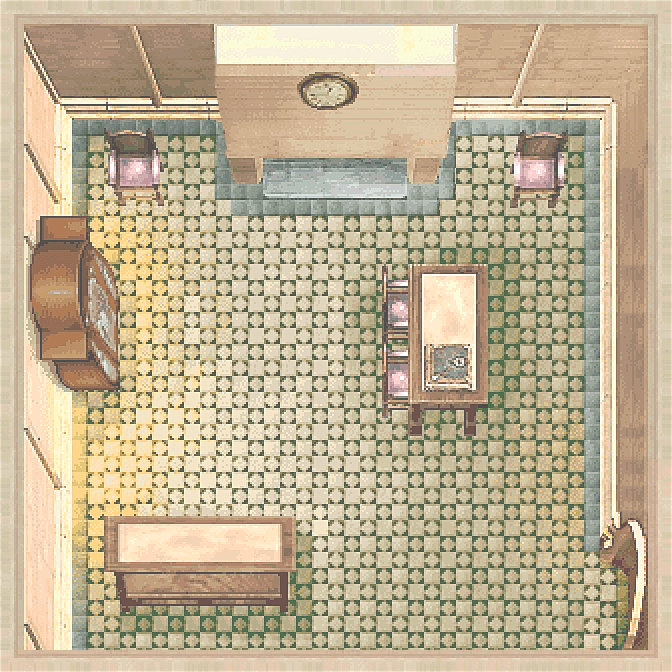
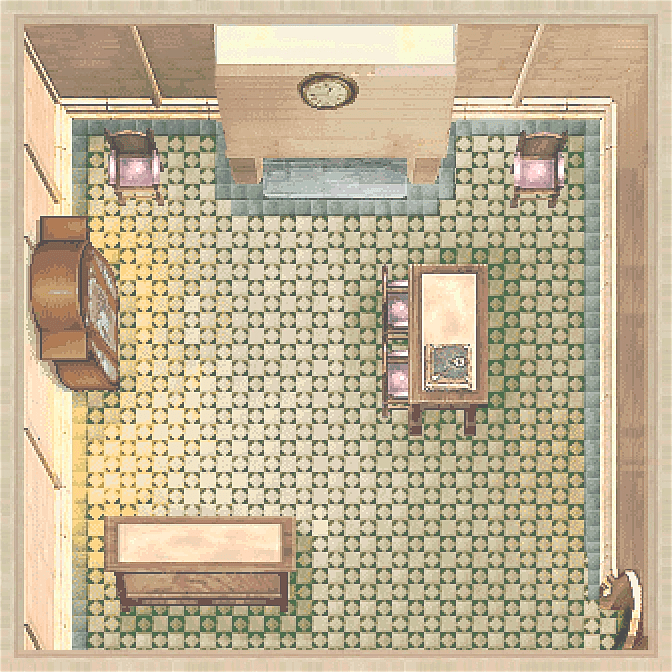
malo esquiva exámenes y puerta mejorada

Changed region(s): [[0.875, 0.6875, 0.9688, 0.9688], [0.9375, 0.6875, 0.9688, 0.7188]]

diff --git a/script.js b/script.js
@@ -61,7 +61,8 @@ window.onload = () => {
 
     //------------------------------------------------------------------------------------------------------
 
-    let objetivo = document.querySelector("img");
+    //Usar una imagen como cursor
+    let objetivo = document.getElementById("varita");
     // centrar la pelota en las coordenadas (pageX, pageY)
     function moveAt(pageX, pageY) {
         objetivo.style.left = pageX - objetivo.offsetWidth / 2 + 'px';
@@ -94,6 +95,8 @@ window.onload = () => {
 
     //Coloco la puerta de salida cerrada
     let salida = celdas[celdas.length - 1];
+    salida.id = "puertaCerrada";
+    console.log(salida)
 
 
 
@@ -124,8 +127,7 @@ window.onload = () => {
             // Compruebo si el movimiento que quiere hacer el usuario es correcto
             if (posicion_prota + 1 == Array.from(celdas).indexOf(e.target) || posicion_prota - 1 == Array.from(celdas).indexOf(e.target) || posicion_prota + 8 == Array.from(celdas).indexOf(e.target) || posicion_prota - 8 == Array.from(celdas).indexOf(e.target)) {
 
-                //Llamo a la función "comprobar salida" para ver si la puerta está abierta
-                // comprobarSalida(posicion_prota, celdas, salida);
+                
 
                 celdas[posicion_prota].id = "";
                 posicion_prota = Array.from(celdas).indexOf(e.target);
@@ -151,12 +153,7 @@ window.onload = () => {
         }
     });
 
-    // Compruebo si el protagonista ha conseguido los examenes  NO SE PORQUE ESTÁ ESTO AQUÍ
-    // if (posicion_prota == posicion_examenes) {
-    //     examanes_inventario = true;
-    //     inventario.textContent = "Examenes";
-    //     salida.id = "puertaAbierta";
-    // }
+   
 
     // Mover pulsando culsores del teclado
     let derecha = [7, 15, 23, 31, 39, 47, 55, 63];
@@ -237,6 +234,9 @@ function comprobarSalida(pos_prota, listaCeldas) {
     let celdas = listaCeldas;
 
     if ((((posicion_prota + 1) == celdas.length - 1) || ((posicion_prota + 8) == celdas.length - 1)) && (celdas[celdas.length - 1].id == "puertaAbierta")) {
+
+        let prota  = document.getElementById("puertaAbierta");
+        prota.style.backgroundImage = "img/harry-escoba.gif";
         alert("Has ganado!!!");
         clearTimeout(timer);
     }
@@ -303,79 +303,194 @@ function moverMalo(examenes, listaCeldas) {
 
 
     tablero[coordenadas.filaMalo][coordenadas.columnaMalo].id = "";
-
+    //Comprobar que se encuentra en la parte superior-izquierda del tablero
     if ((coordenadas.filaProta < coordenadas.filaMalo) && (coordenadas.columnaProta < coordenadas.columnaMalo)) {
 
+        //Mover malo a la izquierda
         if ((((coordenadas.filaMalo % 2) == 0) && ((coordenadas.columnaMalo % 2) == 0)) || (((coordenadas.filaMalo % 2) == 1) && ((coordenadas.columnaMalo % 2) == 1))) {
-            tablero[coordenadas.filaMalo][coordenadas.columnaMalo - 1].id = "malo";
-            coordenadas.columnaMalo = coordenadas.columnaMalo - 1;
-            console.log("columna cambiada malo");
-        } else {
-            tablero[coordenadas.filaMalo - 1][coordenadas.columnaMalo].id = "malo";
-            // coordenadas.filaMalo = (coordenadas.filaMalo - 1);
-            coordenadas.filaMalo = coordenadas.filaMalo - 1;
-            console.log("fila cambiada malo");
+            if (((coordenadas.columnaMalo - 1) == coordenadas.columnaExamenes) && (coordenadas.filaMalo == coordenadas.filaExamenes) && (coordenadas.filaMalo > 0)) {
+                tablero[coordenadas.filaMalo - 1][coordenadas.columnaMalo].id = "malo";
+                coordenadas.filaMalo = coordenadas.filaMalo - 1;
+            } else if (((coordenadas.columnaMalo - 1) == coordenadas.columnaExamenes) && (coordenadas.filaMalo == coordenadas.filaExamenes) && (coordenadas.filaMalo == 0)) {
+                tablero[coordenadas.filaMalo + 1][coordenadas.columnaMalo].id = "malo";
+                coordenadas.filaMalo = coordenadas.filaMalo + 1;
+            } else {
+                tablero[coordenadas.filaMalo][coordenadas.columnaMalo - 1].id = "malo";
+                coordenadas.columnaMalo = coordenadas.columnaMalo - 1;
+            }
 
+            //Mover hacia arriba
+        } else {
+            if (((coordenadas.columnaMalo) == coordenadas.columnaExamenes) && ((coordenadas.filaMalo - 1) == coordenadas.filaExamenes) && (coordenadas.columnaMalo > 0)) {
+                tablero[coordenadas.filaMalo][coordenadas.columnaMalo - 1].id = "malo";
+                coordenadas.columnaMalo = coordenadas.columnaMalo - 1;
+
+            } else if (((coordenadas.columnaMalo) == coordenadas.columnaExamenes) && ((coordenadas.filaMalo - 1) == coordenadas.filaExamenes) && (coordenadas.columnaMalo == 0)) {
+                tablero[coordenadas.filaMalo][coordenadas.columnaMalo + 1].id = "malo";
+                coordenadas.columnaMalo = coordenadas.columnaMalo + 1;
+            } else {
+                tablero[coordenadas.filaMalo - 1][coordenadas.columnaMalo].id = "malo";
+                coordenadas.filaMalo = coordenadas.filaMalo - 1;
+            }
 
         }
 
 
-
+        //Comprobar que se encuentra en la parte superior-derecha del tablero
     } else if ((coordenadas.filaProta < coordenadas.filaMalo) && (coordenadas.columnaProta > coordenadas.columnaMalo)) {
 
+        //Mover hacia la derecha
         if ((((coordenadas.filaMalo % 2) == 0) && ((coordenadas.columnaMalo % 2) == 0)) || (((coordenadas.filaMalo % 2) == 1) && ((coordenadas.columnaMalo % 2) == 1))) {
-            tablero[coordenadas.filaMalo][coordenadas.columnaMalo + 1].id = "malo";
-            coordenadas.columnaMalo = coordenadas.columnaMalo + 1;
+            if (((coordenadas.columnaMalo + 1) == coordenadas.columnaExamenes) && (coordenadas.filaMalo == coordenadas.filaExamenes) && (coordenadas.filaMalo > 0)) {
+                tablero[coordenadas.filaMalo - 1][coordenadas.columnaMalo].id = "malo";
+                coordenadas.filaMalo = coordenadas.filaMalo - 1;
+            } else if (((coordenadas.columnaMalo + 1) == coordenadas.columnaExamenes) && (coordenadas.filaMalo == coordenadas.filaExamenes) && (coordenadas.filaMalo == 0)) {
+                tablero[coordenadas.filaMalo + 1][coordenadas.columnaMalo].id = "malo";
+                coordenadas.filaMalo = coordenadas.filaMalo + 1;
+            } else {
+                tablero[coordenadas.filaMalo][coordenadas.columnaMalo + 1].id = "malo";
+                coordenadas.columnaMalo = coordenadas.columnaMalo + 1;
+            }
+
+            //Mover hacia arriba
         } else {
-            tablero[coordenadas.filaMalo - 1][coordenadas.columnaMalo].id = "malo";
-            coordenadas.filaMalo = coordenadas.filaMalo - 1;
+            if (((coordenadas.columnaMalo) == coordenadas.columnaExamenes) && ((coordenadas.filaMalo - 1) == coordenadas.filaExamenes) && (coordenadas.columnaMalo > 0)) {
+                tablero[coordenadas.filaMalo][coordenadas.columnaMalo - 1].id = "malo";
+                coordenadas.columnaMalo = coordenadas.columnaMalo - 1;
+
+            } else if (((coordenadas.columnaMalo) == coordenadas.columnaExamenes) && ((coordenadas.filaMalo - 1) == coordenadas.filaExamenes) && (coordenadas.columnaMalo == 0)) {
+                tablero[coordenadas.filaMalo][coordenadas.columnaMalo + 1].id = "malo";
+                coordenadas.columnaMalo = coordenadas.columnaMalo + 1;
+            } else {
+                tablero[coordenadas.filaMalo - 1][coordenadas.columnaMalo].id = "malo";
+                coordenadas.filaMalo = coordenadas.filaMalo - 1;
+            }
+
         }
 
 
+
+        //Comprobar que se encuentra en la parte inferior-izquierda del tablero
 
     } else if ((coordenadas.filaProta > coordenadas.filaMalo) && (coordenadas.columnaProta < coordenadas.columnaMalo)) {
-
+        //Mover malo a la izquierda
         if ((((coordenadas.filaMalo % 2) == 0) && ((coordenadas.columnaMalo % 2) == 0)) || (((coordenadas.filaMalo % 2) == 1) && ((coordenadas.columnaMalo % 2) == 1))) {
-            tablero[coordenadas.filaMalo][coordenadas.columnaMalo - 1].id = "malo";
-            coordenadas.columnaMalo = coordenadas.columnaMalo - 1;
+            if (((coordenadas.columnaMalo - 1) == coordenadas.columnaExamenes) && (coordenadas.filaMalo == coordenadas.filaExamenes) && (coordenadas.filaMalo < (tablero.length - 1))) {
+                tablero[coordenadas.filaMalo + 1][coordenadas.columnaMalo].id = "malo";
+                coordenadas.filaMalo = coordenadas.filaMalo + 1;
+            } else if (((coordenadas.columnaMalo - 1) == coordenadas.columnaExamenes) && (coordenadas.filaMalo == coordenadas.filaExamenes) && (coordenadas.filaMalo == (tablero.length - 1))) {
+                tablero[coordenadas.filaMalo - 1][coordenadas.columnaMalo].id = "malo";
+                coordenadas.filaMalo = coordenadas.filaMalo - 1;
+            } else {
+                tablero[coordenadas.filaMalo][coordenadas.columnaMalo - 1].id = "malo";
+                coordenadas.columnaMalo = coordenadas.columnaMalo - 1;
+            }
+            //Mover malo hacia abajo
         } else {
-            tablero[coordenadas.filaMalo + 1][coordenadas.columnaMalo].id = "malo";
-            coordenadas.filaMalo = coordenadas.filaMalo + 1;
+            if (((coordenadas.columnaMalo) == coordenadas.columnaExamenes) && ((coordenadas.filaMalo + 1) == coordenadas.filaExamenes) && (coordenadas.columnaMalo > 0)) {
+                tablero[coordenadas.filaMalo][coordenadas.columnaMalo - 1].id = "malo";
+                coordenadas.columnaMalo = coordenadas.columnaMalo - 1;
+
+            } else if (((coordenadas.columnaMalo) == coordenadas.columnaExamenes) && ((coordenadas.filaMalo + 1) == coordenadas.filaExamenes) && (coordenadas.columnaMalo == 0)) {
+                tablero[coordenadas.filaMalo][coordenadas.columnaMalo + 1].id = "malo";
+                coordenadas.columnaMalo = coordenadas.columnaMalo + 1;
+            } else {
+                tablero[coordenadas.filaMalo + 1][coordenadas.columnaMalo].id = "malo";
+                coordenadas.filaMalo = coordenadas.filaMalo + 1;
+            }
+
         }
 
 
+        //Comprobar que se encuentra en la parte inferior-derecha del tablero
 
     } else if ((coordenadas.filaProta > coordenadas.filaMalo) && (coordenadas.columnaProta > coordenadas.columnaMalo)) {
 
+        //Mover malo a la derecha
         if ((((coordenadas.filaMalo % 2) == 0) && ((coordenadas.columnaMalo % 2) == 0)) || (((coordenadas.filaMalo % 2) == 1) && ((coordenadas.columnaMalo % 2) == 1))) {
-            tablero[coordenadas.filaMalo][coordenadas.columnaMalo + 1].id = "malo";
-            coordenadas.columnaMalo = coordenadas.columnaMalo + 1;
+            if (((coordenadas.columnaMalo + 1) == coordenadas.columnaExamenes) && (coordenadas.filaMalo == coordenadas.filaExamenes) && (coordenadas.filaMalo < (tablero.length - 1))) {
+                tablero[coordenadas.filaMalo + 1][coordenadas.columnaMalo].id = "malo";
+                coordenadas.filaMalo = coordenadas.filaMalo + 1;
+            } else if (((coordenadas.columnaMalo + 1) == coordenadas.columnaExamenes) && (coordenadas.filaMalo == coordenadas.filaExamenes) && (coordenadas.filaMalo == (tablero.length - 1))) {
+                tablero[coordenadas.filaMalo - 1][coordenadas.columnaMalo].id = "malo";
+                coordenadas.filaMalo = coordenadas.filaMalo - 1;
+            } else {
+                tablero[coordenadas.filaMalo][coordenadas.columnaMalo + 1].id = "malo";
+                coordenadas.columnaMalo = coordenadas.columnaMalo + 1;
+            }
+            //Mover malo hacia abajo
         } else {
-            tablero[coordenadas.filaMalo + 1][coordenadas.columnaMalo].id = "malo";
-            coordenadas.filaMalo = coordenadas.filaMalo + 1;
+            if (((coordenadas.columnaMalo) == coordenadas.columnaExamenes) && ((coordenadas.filaMalo + 1) == coordenadas.filaExamenes) && (coordenadas.columnaMalo > 0)) {
+                tablero[coordenadas.filaMalo][coordenadas.columnaMalo - 1].id = "malo";
+                coordenadas.columnaMalo = coordenadas.columnaMalo - 1;
+
+            } else if (((coordenadas.columnaMalo) == coordenadas.columnaExamenes) && ((coordenadas.filaMalo + 1) == coordenadas.filaExamenes) && (coordenadas.columnaMalo == 0)) {
+                tablero[coordenadas.filaMalo][coordenadas.columnaMalo + 1].id = "malo";
+                coordenadas.columnaMalo = coordenadas.columnaMalo + 1;
+            } else {
+                tablero[coordenadas.filaMalo + 1][coordenadas.columnaMalo].id = "malo";
+                coordenadas.filaMalo = coordenadas.filaMalo + 1;
+            }
+
         }
 
-
+        //Comprobar que se encuentra en la misma fila o columna
     } else {
 
+        //Misma fila, se mueve a la izquierda
         if ((coordenadas.filaProta == coordenadas.filaMalo) && (coordenadas.columnaProta < coordenadas.columnaMalo)) {
+            if (((coordenadas.columnaMalo - 1) == coordenadas.columnaExamenes) && (coordenadas.filaMalo == coordenadas.filaExamenes) && (coordenadas.filaMalo > 0)) {
+                tablero[coordenadas.filaMalo - 1][coordenadas.columnaMalo].id = "malo";
+                coordenadas.filaMalo = coordenadas.filaMalo - 1;
+            } else if (((coordenadas.columnaMalo - 1) == coordenadas.columnaExamenes) && (coordenadas.filaMalo == coordenadas.filaExamenes) && (coordenadas.filaMalo == 0)) {
+                tablero[coordenadas.filaMalo + 1][coordenadas.columnaMalo].id = "malo";
+                coordenadas.filaMalo = coordenadas.filaMalo + 1;
+            } else {
+                tablero[coordenadas.filaMalo][coordenadas.columnaMalo - 1].id = "malo";
+                coordenadas.columnaMalo = coordenadas.columnaMalo - 1;
+            }
 
-            tablero[coordenadas.filaMalo][coordenadas.columnaMalo - 1].id = "malo";
-            coordenadas.columnaMalo = coordenadas.columnaMalo - 1;
-
+            //Misma fila, se mueve a la derecha
         } else if ((coordenadas.filaProta == coordenadas.filaMalo) && (coordenadas.columnaProta > coordenadas.columnaMalo)) {
+            if (((coordenadas.columnaMalo + 1) == coordenadas.columnaExamenes) && (coordenadas.filaMalo == coordenadas.filaExamenes) && (coordenadas.filaMalo > 0)) {
+                tablero[coordenadas.filaMalo - 1][coordenadas.columnaMalo].id = "malo";
+                coordenadas.filaMalo = coordenadas.filaMalo - 1;
+            } else if (((coordenadas.columnaMalo + 1) == coordenadas.columnaExamenes) && (coordenadas.filaMalo == coordenadas.filaExamenes) && (coordenadas.filaMalo == 0)) {
+                tablero[coordenadas.filaMalo + 1][coordenadas.columnaMalo].id = "malo";
+                coordenadas.filaMalo = coordenadas.filaMalo + 1;
+            } else {
+                tablero[coordenadas.filaMalo][coordenadas.columnaMalo + 1].id = "malo";
+                coordenadas.columnaMalo = coordenadas.columnaMalo + 1;
+            }
 
-            tablero[coordenadas.filaMalo][coordenadas.columnaMalo + 1].id = "malo";
-            coordenadas.columnaMalo = coordenadas.columnaMalo + 1;
-
+            //Misma columna, se mueve hacia arriba
         } else if ((coordenadas.columnaProta == coordenadas.columnaProta) && (coordenadas.filaProta < coordenadas.filaMalo)) {
 
-            tablero[coordenadas.filaMalo - 1][coordenadas.columnaMalo].id = "malo";
-            coordenadas.filaMalo = coordenadas.filaMalo - 1;
+            if (((coordenadas.columnaMalo) == coordenadas.columnaExamenes) && ((coordenadas.filaMalo - 1) == coordenadas.filaExamenes) && (coordenadas.columnaMalo > 0)) {
+                tablero[coordenadas.filaMalo][coordenadas.columnaMalo - 1].id = "malo";
+                coordenadas.columnaMalo = coordenadas.columnaMalo - 1;
 
+            } else if (((coordenadas.columnaMalo) == coordenadas.columnaExamenes) && ((coordenadas.filaMalo - 1) == coordenadas.filaExamenes) && (coordenadas.columnaMalo == 0)) {
+                tablero[coordenadas.filaMalo][coordenadas.columnaMalo + 1].id = "malo";
+                coordenadas.columnaMalo = coordenadas.columnaMalo + 1;
+            } else {
+                tablero[coordenadas.filaMalo - 1][coordenadas.columnaMalo].id = "malo";
+                coordenadas.filaMalo = coordenadas.filaMalo - 1;
+            }
+
+            //Misma columna, se mueve hacia abajo
         } else {
-            tablero[coordenadas.filaMalo + 1][coordenadas.columnaMalo].id = "malo";
-            coordenadas.filaMalo = coordenadas.filaMalo + 1;
+            if (((coordenadas.columnaMalo) == coordenadas.columnaExamenes) && ((coordenadas.filaMalo + 1) == coordenadas.filaExamenes) && (coordenadas.columnaMalo > 0)) {
+                tablero[coordenadas.filaMalo][coordenadas.columnaMalo - 1].id = "malo";
+                coordenadas.columnaMalo = coordenadas.columnaMalo - 1;
+
+            } else if (((coordenadas.columnaMalo) == coordenadas.columnaExamenes) && ((coordenadas.filaMalo + 1) == coordenadas.filaExamenes) && (coordenadas.columnaMalo == 0)) {
+                tablero[coordenadas.filaMalo][coordenadas.columnaMalo + 1].id = "malo";
+                coordenadas.columnaMalo = coordenadas.columnaMalo + 1;
+            } else {
+                tablero[coordenadas.filaMalo + 1][coordenadas.columnaMalo].id = "malo";
+                coordenadas.filaMalo = coordenadas.filaMalo + 1;
+            }
         }
 
     }
@@ -415,9 +530,9 @@ function perder(coord) {
         audio.volume = 0.1;
         audio.play();
 
-        // let perdedor = confirm("Te han pillado!!! \n ¿Quieres volver a jugar?");
-        // if (perdedor) {
-        //     location.reload();
-        // }
+        let perdedor = confirm("Te han pillado!!! \n ¿Quieres volver a jugar?");
+        if (perdedor) {
+            location.reload();
+        }
     }
 }

diff --git a/style.css b/style.css
@@ -15,7 +15,7 @@ table{
     margin: 0 auto;
     width: fit-content;
     height:fit-content;
-    background-image: url('img/habitacion.png');
+    background-image: url('img/habitacion1.png');
     background-size: contain;
     background-repeat: no-repeat;
     background-position: center;
@@ -80,9 +80,19 @@ td{
     color: white;
     border: 1px solid white;
 }
-
+#puertaCerrada{
+    background-image: url("/img/puerta-cerrada.png");
+    background-size: 70%;
+    background-position: top;
+    background-repeat: no-repeat;
+    filter: drop-shadow(0 0 5rem #ccb102a9);
+}
 #puertaAbierta{
-    background-color: greenyellow;
+    background-image: url("/img/puerta-abierta.png");
+    background-size: 70%;
+    background-position: top left;
+    background-repeat: no-repeat;
+    filter: drop-shadow(0 0 5rem #ccb102a9);
 }
 
 
